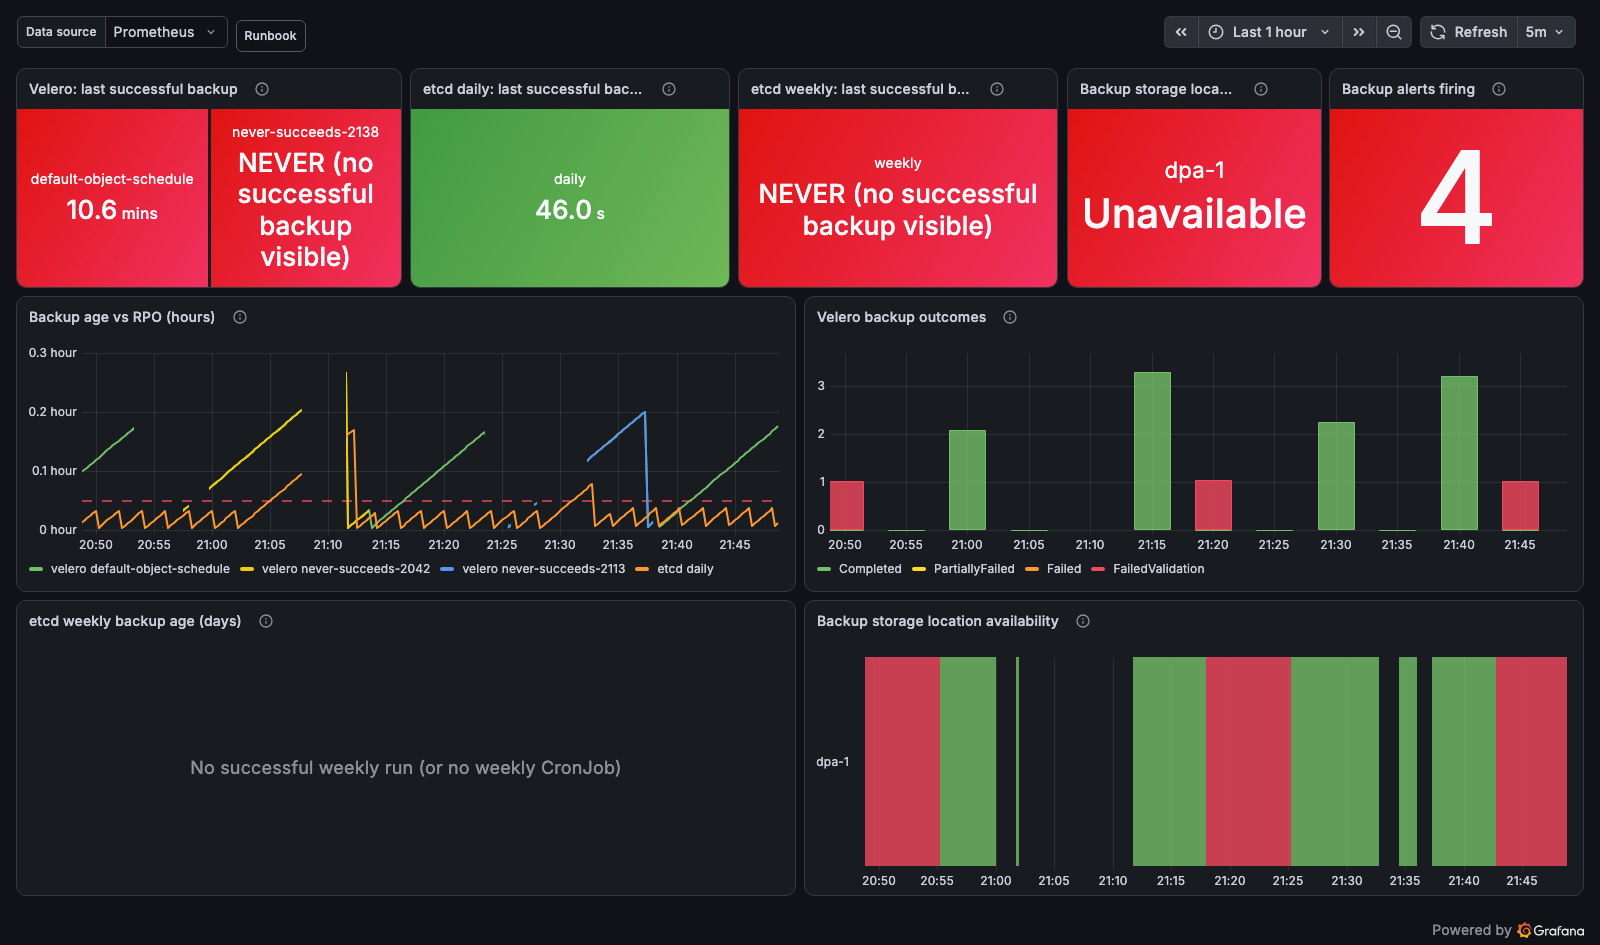
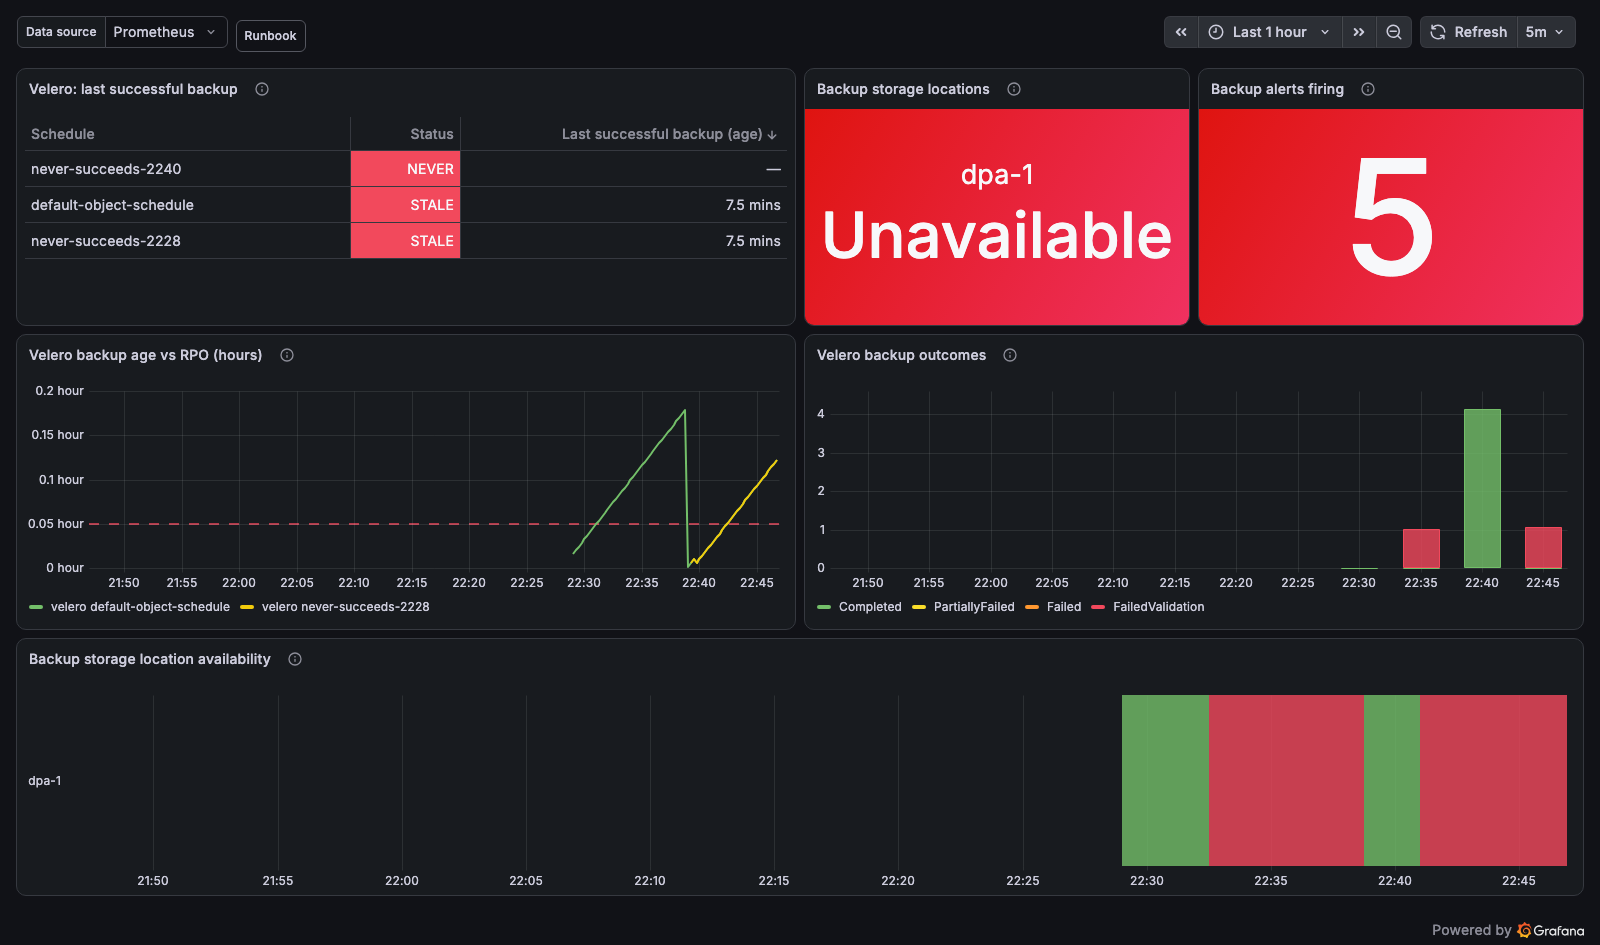
test(oadp-observability): e2e screenshots of the new dashboard; tolerate transient pending
The README screenshots are retaken with the default dashboard (the status table, and no
etcd section). The etcd section was rendered and checked separately with it enabled in
values-e2e.yaml.

- lib.sh: the baseline 'quiet' check treats a transient pending as not firing, noted
  rather than failed. One evaluation of absent(up) before Velero's first scrape on a fresh
  stack is exactly what for absorbs.
- screenshots.sh: HEIGHT and OUT overrides.
- The reports for both runs are committed, with the one pending blip explained.

diff --git a/oadp-observability/tests/reports/e2e-kind-2026-09-29-only-0-1-2-3-5-7.md b/oadp-observability/tests/reports/e2e-kind-2026-09-29-only-0-1-2-3-5-7.md
@@ -1,0 +1,47 @@
+# e2e on kind — 2026-09-29
+
+Every alert of this chart driven to **firing** (in Prometheus, and delivered to
+Alertmanager) and back to **resolved** on a real stack: kind, kube-prometheus-stack 91.8.2,
+grafana-operator v5.25.0, **Velero 1.16.2** (what OADP 1.5 ships) with a SeaweedFS S3 bucket,
+the OADP-shaped metrics Service, and this chart with `tests/e2e/values-e2e.yaml`.
+
+> **Timings are shortened** for the run (budget 3m instead of 25h, `for` 1m instead of 15m,
+> failure window 5m instead of 12h). The rule expressions are the production ones.
+> Not exercised here: OpenShift user-workload monitoring's namespace enforcement, and the
+> `Failed` / `PartiallyFailed` phases (covered by `tests/unit/rules.test.yaml`).
+
+| Scenario | Alert | Expected | Result |
+| --- | --- | --- | --- |
+| 0 baseline | OadpBackupStale {} | quiet | ✅ quiet |
+| 0 baseline | OadpBackupNoSuccessfulBackup {} | quiet | ✅ quiet |
+| 0 baseline | OadpBackupStorageLocationUnavailable {} | quiet | ✅ quiet |
+| 0 baseline | OadpBackupFailed {} | quiet | ✅ quiet |
+| 0 baseline | OadpMetricsAbsent {} | quiet | ❌ pending |
+| 0 baseline | OadpTargetDown {} | quiet | ✅ quiet |
+| 1 stale | OadpBackupStale {"schedule":"default-object-schedule"} | firing | ✅ firing after 191s, delivered to Alertmanager |
+| 1 stale | OadpBackupNoSuccessfulBackup {"schedule":"default-object-schedule"} | quiet | ✅ quiet |
+| 2 bucket | OadpBackupStorageLocationUnavailable {"name":"dpa-1"} | firing | ✅ firing after 90s, delivered to Alertmanager |
+| 2 bucket | OadpBackupFailed {"schedule":"default-object-schedule","phase":"FailedValidation"} | firing | ✅ firing after 10s, delivered to Alertmanager |
+| 3 never | OadpBackupNoSuccessfulBackup {"schedule":"never-succeeds-2228"} | firing | ✅ firing after 252s, delivered to Alertmanager |
+| 3 never | OadpBackupStale {"schedule":"never-succeeds-2228"} | quiet | ✅ quiet |
+| 5 recovery | OadpBackupStorageLocationUnavailable {"name":"dpa-1"} | resolved | ✅ resolved after 20s |
+| 5 recovery | OadpBackupNoSuccessfulBackup {"schedule":"default-object-schedule"} | resolved | ✅ resolved after 0s |
+| 5 recovery | OadpBackupNoSuccessfulBackup {"schedule":"never-succeeds-2228"} | resolved | ✅ resolved after 31s |
+| 5 recovery | OadpBackupFailed {"schedule":"default-object-schedule"} | resolved | ✅ resolved after 0s |
+| 7 healthy | OadpBackupStale {} | resolved | ✅ resolved after 0s |
+| 7 healthy | OadpBackupNoSuccessfulBackup {} | resolved | ✅ resolved after 1s |
+| 7 healthy | OadpBackupStorageLocationUnavailable {} | resolved | ✅ resolved after 0s |
+| 7 healthy | OadpBackupFailed {} | resolved | ✅ resolved after 0s |
+| 7 healthy | OadpMetricsAbsent {} | resolved | ✅ resolved after 0s |
+| 7 healthy | OadpTargetDown {} | resolved | ✅ resolved after 0s |
+
+**Result: FAIL**
+
+## Note
+
+This run exercised the **new dashboard** (the Velero status table, and the etcd section enabled)
+on a freshly built stack. The only ❌ is at baseline: `OadpMetricsAbsent{target="velero"}` was
+**pending for a single evaluation** (20:28:53Z), between the chart's ServiceMonitor loading and
+Velero's first scrape. It never fired, because that's what `for` absorbs. The baseline check now
+treats a transient `pending` as "not firing" and notes it. Every alert asserted here fired, was
+delivered to Alertmanager, and resolved.

diff --git a/oadp-observability/README.md b/oadp-observability/README.md
@@ -42,23 +42,41 @@ permissions, and troubleshooting.
 
 ## Dashboard
 
-**OADP / Backup Status** (`grafana.dashboard.enabled`, on by default):
-- **Status tiles:** Velero's last *successful* backup per schedule, BSL phase, and backup
-  alerts firing. `NEVER` (red) means the schedule exists but no success is visible.
-- **Charts:** backup age against the 25h budget, Velero outcomes per hour, and BSL availability
+**OADP / Backup Status** (`grafana.dashboard.enabled`, on by default) answers "can this cluster
+be restored?" without `oc`:
+- **Velero status table:** one row per schedule, worst first, with the age of its last
+  *successful* backup and a status of `OK`, `STALE` (older than `maxAgeHours`, the same budget
+  as `OadpBackupStale`) or `NEVER` (the schedule exists but no success is visible). It stays
+  readable with many schedules.
+- **Tiles:** BSL phase per location, and backup alerts firing.
+- **Charts:** backup age against the budget, Velero outcomes over time, and BSL availability
   over time.
-- **Optional etcd panels:** CronJob-based etcd backups (`daily-etcd-backup` /
-  `weekly-etcd-backup` in namespace `etcd-backup`), read from kube-state-metrics'
-  `kube_cronjob_status_last_successful_time`. They're empty if you don't run such CronJobs.
+- **Optional etcd section** (`grafana.dashboard.etcdBackup.enabled`, **off by default**): for
+  clusters that back up etcd with CronJobs. It shows the daily and weekly last-*successful*-run
+  age from kube-state-metrics' `kube_cronjob_status_last_successful_time`, with configurable
+  namespace, CronJob names, and budgets:
+
+  ```yaml
+  grafana:
+    dashboard:
+      etcdBackup:
+        enabled: true
+        namespace: etcd-backup
+        dailyCronJob: daily-etcd-backup
+        weeklyCronJob: weekly-etcd-backup
+        dailyMaxAgeHours: 25
+        weeklyMaxAgeHours: 192
+  ```
 
 ### Screenshots
 
 Taken by the end-to-end suite ([`tests/e2e/`](tests/e2e/README.md)) on kind, with real Velero 1.16.2,
 the chart installed as-is, and alert timings shortened (a 3-minute budget instead of 25h).
-The etcd tiles are fed by demo CronJobs.
+The dashboard is shown in its default configuration, with the optional etcd section off.
 
-**During an outage.** The bucket is unreachable (BSL `Unavailable`), one schedule's last success
-is past the budget, and a new schedule has **never** succeeded:
+**During an outage.** The bucket is unreachable (BSL `Unavailable`), one schedule is `STALE`
+(its last success is past the budget), and a new schedule has `NEVER` succeeded. The status
+table sorts worst first:
 
 ![OADP / Backup Status during an outage](docs/images/dashboard-failing.png)
 

diff --git a/oadp-observability/tests/reports/e2e-kind-2026-09-29-only-2-3-5-7.md b/oadp-observability/tests/reports/e2e-kind-2026-09-29-only-2-3-5-7.md
@@ -1,0 +1,30 @@
+# e2e on kind — 2026-09-29
+
+Every alert of this chart driven to **firing** (in Prometheus, and delivered to
+Alertmanager) and back to **resolved** on a real stack: kind, kube-prometheus-stack 91.8.2,
+grafana-operator v5.25.0, **Velero 1.16.2** (what OADP 1.5 ships) with a SeaweedFS S3 bucket,
+the OADP-shaped metrics Service, and this chart with `tests/e2e/values-e2e.yaml`.
+
+> **Timings are shortened** for the run (budget 3m instead of 25h, `for` 1m instead of 15m,
+> failure window 5m instead of 12h). The rule expressions are the production ones.
+> Not exercised here: OpenShift user-workload monitoring's namespace enforcement, and the
+> `Failed` / `PartiallyFailed` phases (covered by `tests/unit/rules.test.yaml`).
+
+| Scenario | Alert | Expected | Result |
+| --- | --- | --- | --- |
+| 2 bucket | OadpBackupStorageLocationUnavailable {"name":"dpa-1"} | firing | ✅ firing after 90s, delivered to Alertmanager |
+| 2 bucket | OadpBackupFailed {"schedule":"default-object-schedule","phase":"FailedValidation"} | firing | ✅ firing after 10s, delivered to Alertmanager |
+| 3 never | OadpBackupNoSuccessfulBackup {"schedule":"never-succeeds-2240"} | firing | ✅ firing after 252s, delivered to Alertmanager |
+| 3 never | OadpBackupStale {"schedule":"never-succeeds-2240"} | quiet | ✅ quiet |
+| 5 recovery | OadpBackupStorageLocationUnavailable {"name":"dpa-1"} | resolved | ✅ resolved after 30s |
+| 5 recovery | OadpBackupNoSuccessfulBackup {"schedule":"default-object-schedule"} | resolved | ✅ resolved after 0s |
+| 5 recovery | OadpBackupNoSuccessfulBackup {"schedule":"never-succeeds-2240"} | resolved | ✅ resolved after 20s |
+| 5 recovery | OadpBackupFailed {"schedule":"default-object-schedule"} | resolved | ✅ resolved after 0s |
+| 7 healthy | OadpBackupStale {} | resolved | ✅ resolved after 10s |
+| 7 healthy | OadpBackupNoSuccessfulBackup {} | resolved | ✅ resolved after 0s |
+| 7 healthy | OadpBackupStorageLocationUnavailable {} | resolved | ✅ resolved after 0s |
+| 7 healthy | OadpBackupFailed {} | resolved | ✅ resolved after 0s |
+| 7 healthy | OadpMetricsAbsent {} | resolved | ✅ resolved after 0s |
+| 7 healthy | OadpTargetDown {} | resolved | ✅ resolved after 0s |
+
+**Result: PASS**

diff --git a/oadp-observability/tests/e2e/README.md b/oadp-observability/tests/e2e/README.md
@@ -61,6 +61,6 @@ the cause.
   isn't exercised (all objects share `openshift-adp`, which is what that enforcement needs).
 - Velero's `Failed` / `PartiallyFailed` phases aren't produced here. They're covered by
   `tests/unit/rules.test.yaml`.
-- The etcd tiles on the dashboard are fed by **demo** CronJobs
+- The optional etcd section is enabled in `values-e2e.yaml` so it renders for real. Its tiles are fed by **demo** CronJobs
   ([`stack/demo-etcd-cronjobs.yaml`](stack/demo-etcd-cronjobs.yaml)): daily succeeds, weekly
   always fails.
